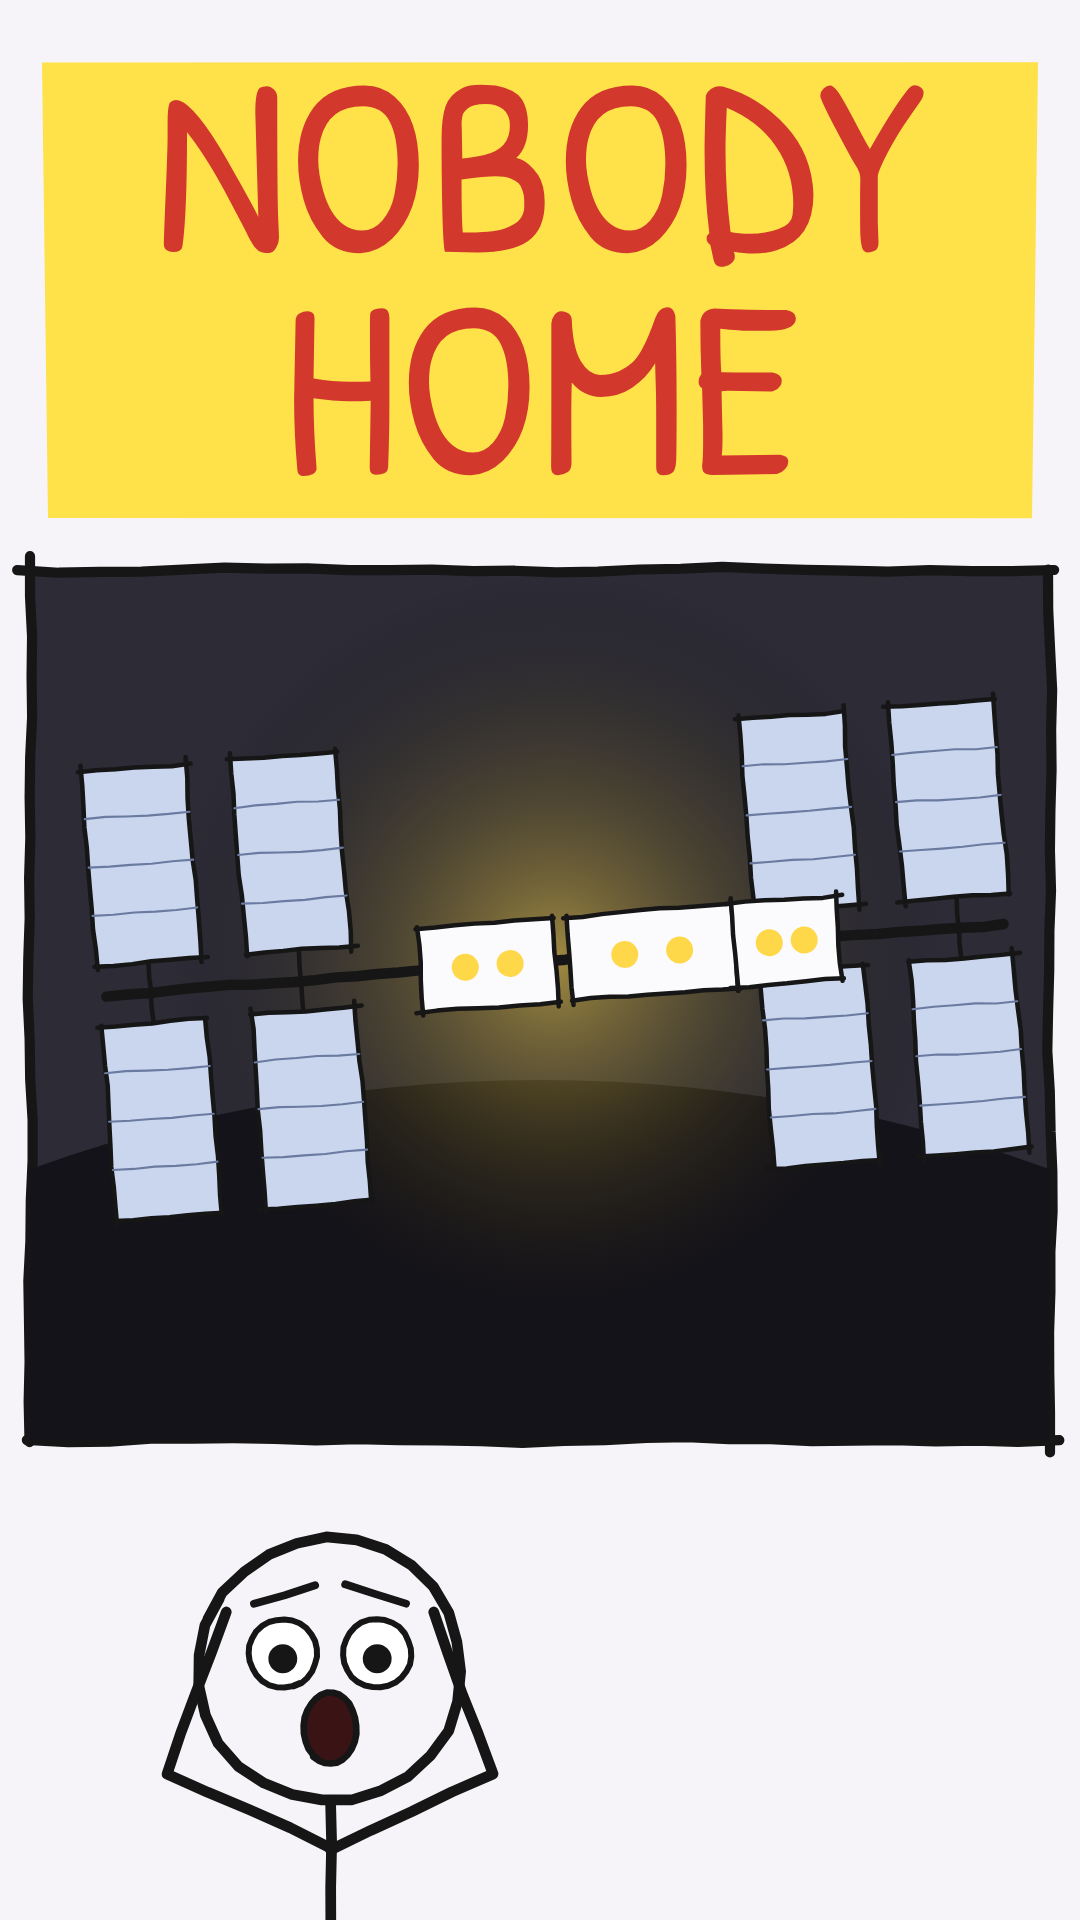
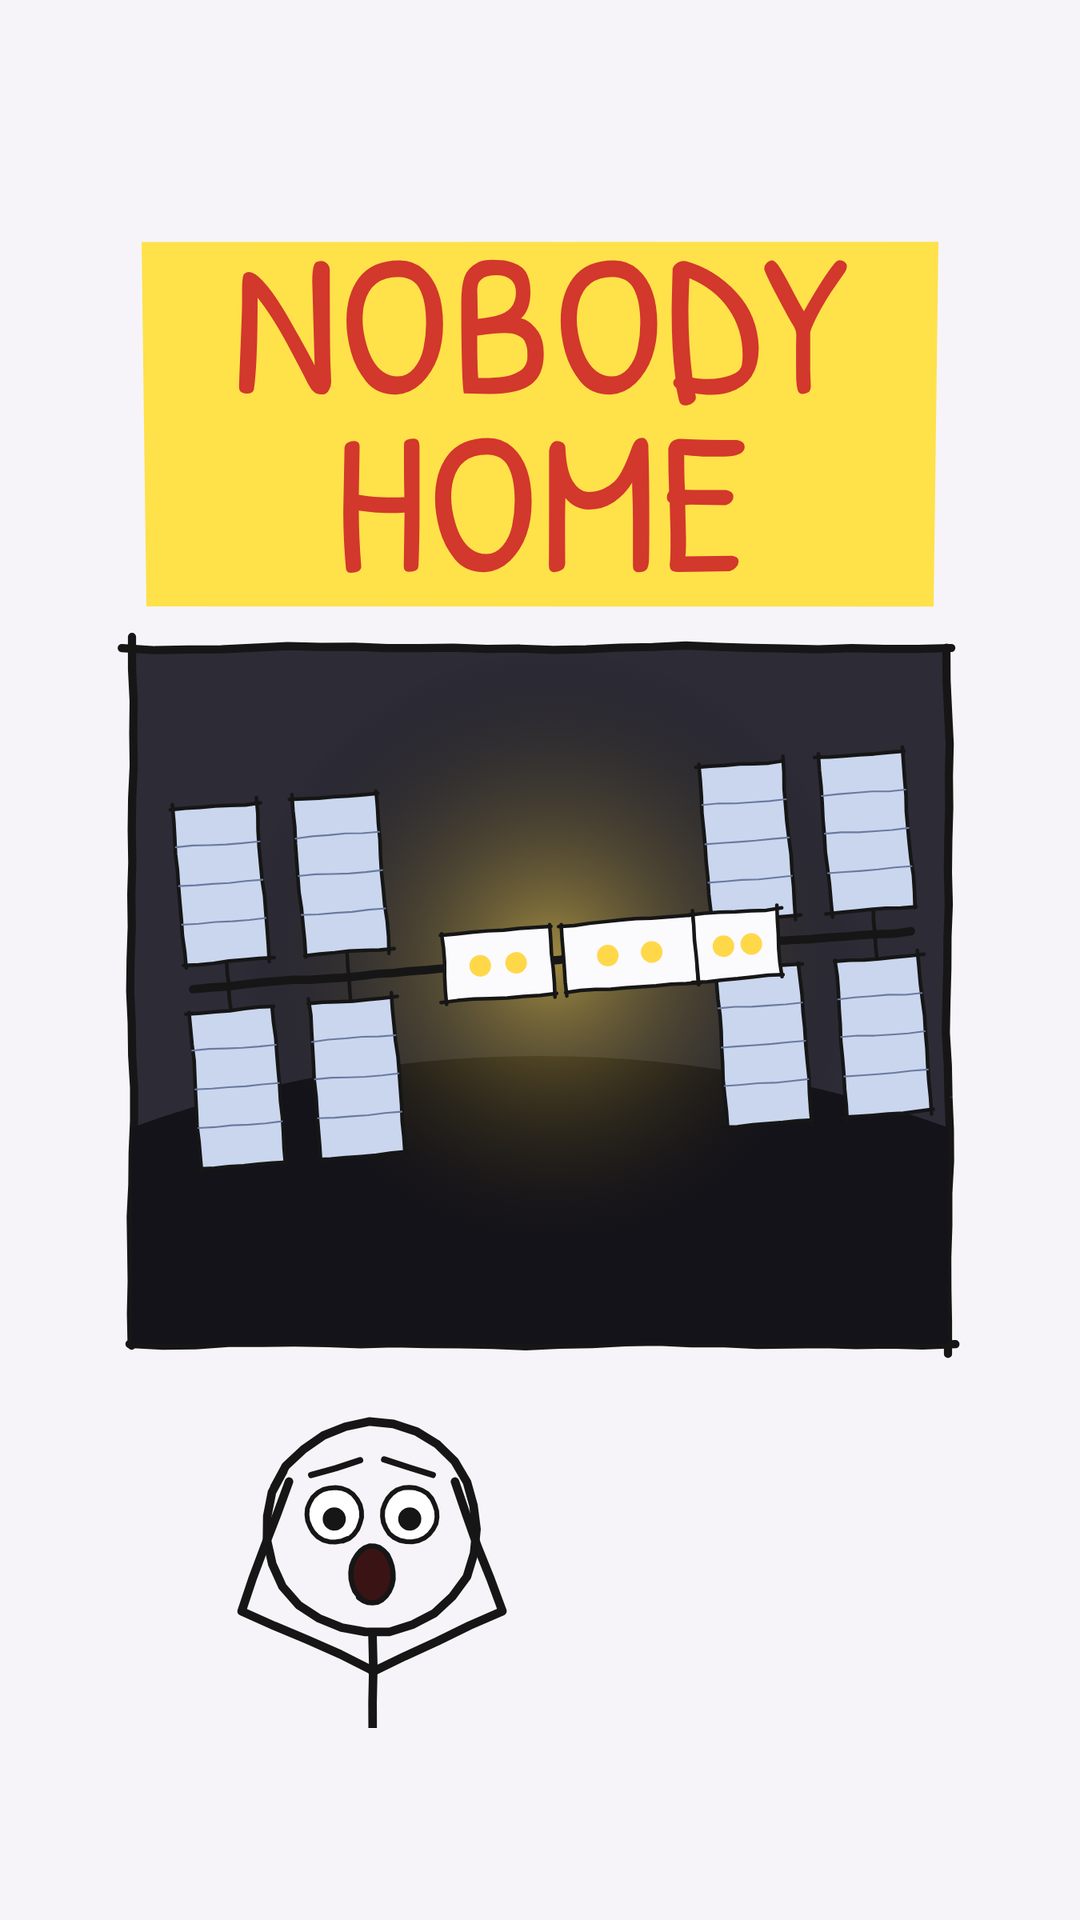
Shorts covers: fit inside the channel-page 2:3 crop (covers 4-6 + episode 4); add rule
Claude-Session: https://claude.ai/code/session_01QZBGd8qH4EfV1MNE2nHfnB

diff --git a/CLAUDE.md b/CLAUDE.md
@@ -71,6 +71,9 @@ After each upload, add its 48 h and 7-day numbers there. Change a rule only when
    black dot = the Moon can't cover it). A crossed-out object alone reads as a "no entry" sign.
 7. **Faces big, legs cropped:** feet may leave the frame; the faces are what the eye locks onto.
 - Always check a 180×320 (Shorts) / 320×180 (long) downscale before publishing.
+- **Shorts covers are shown cropped to ~2:3** on the channel page and in Studio (≈8% cut off top and bottom):
+  keep ALL text, faces and the event inside y ≈ 200–1720 of 1920 (covers 4–6 lost the top of their text).
+  Check the centre 2:3 crop of every cover before publishing.
 - Make 3 different concepts per long video for Test & Compare.
 - Note: in the Shorts feed viewers see the **first frame**, not the cover — the cover matters for the channel page
   and search; the first second matters for the feed.
